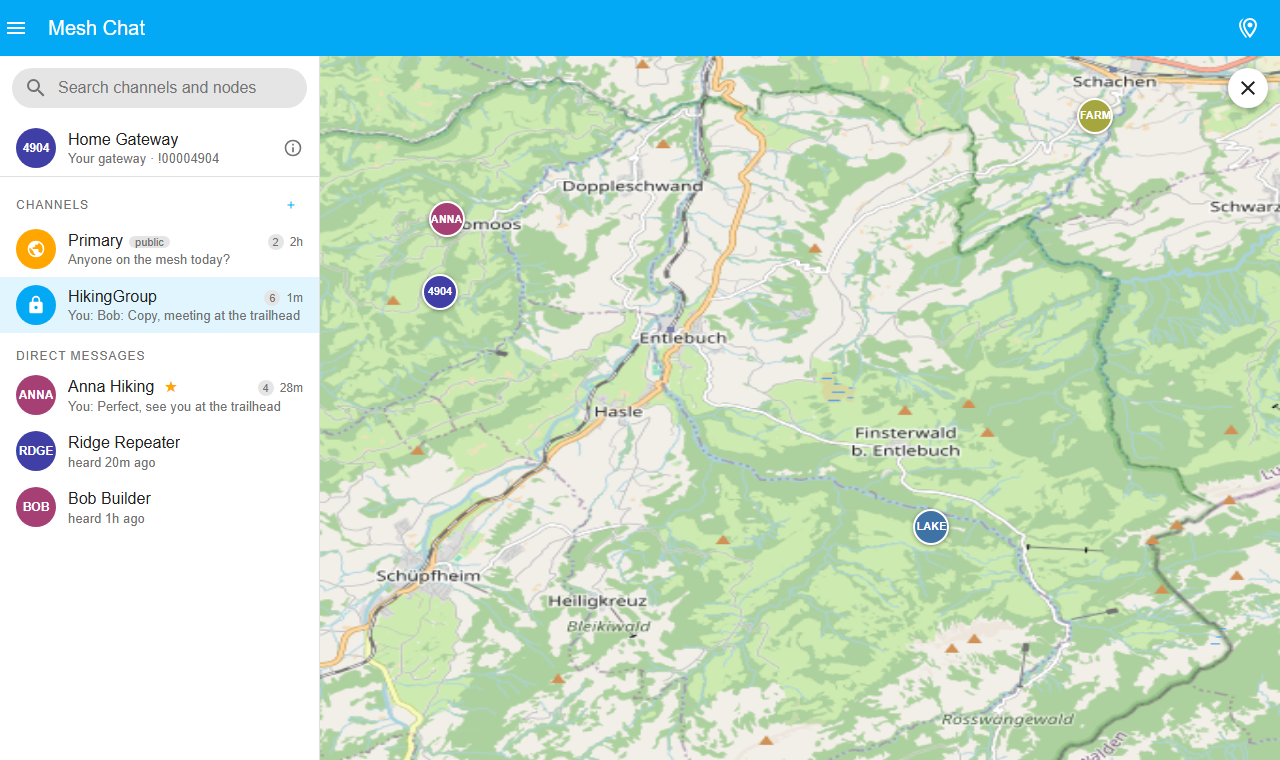
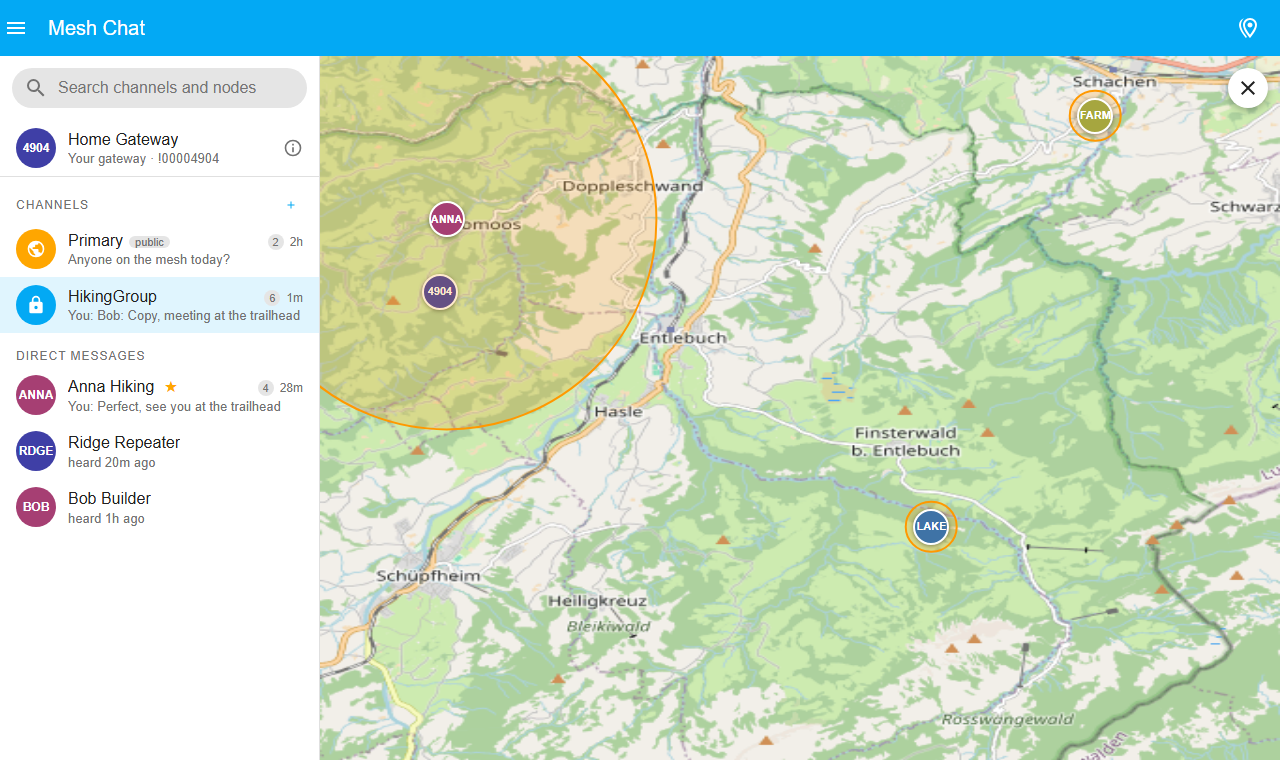
Map: draw the accuracy of a shared position as a circle around the marker
Home Assistant's map drew this circle for the device tracker entities; the chat's own markers lost it.
Every node on the full map and in the details map (including the gateway when its position carries a
precision) gets a circle of its position accuracy as the map element's radius, with our marker kept in
the centre. Exact positions and ones coarser than 50 km get none: such a circle says little and would
zoom the map out to the continent. The older "hass" map interface gets gps_accuracy on its states.

The node details send the gateway marker's accuracy. README line and refreshed map and node screenshots.
Panel build 29.

Changed region(s): [[0.25, 0.0605, 0.5312, 0.575], [0.6875, 0.6355, 0.75, 0.7263], [0.8125, 0.1211, 0.875, 0.1816]]

diff --git a/custom_components/meshtastic/ha_frontend/chat-panel.js b/custom_components/meshtastic/ha_frontend/chat-panel.js
@@ -58,6 +58,9 @@ const KEY_CHOICES = [
 ];
 const PRECISION_BITS = [0, 10, 11, 12, 13, 14, 15, 16, 17, 18, 19, 32];
 // nodes without a device tracker are shown to ha-map as states under this prefix (they never reach Home Assistant)
+// a position shared with less precision is drawn as a circle of its accuracy around the marker; beyond this radius
+// the circle says little and would zoom the map out to the continent
+const MAP_MAX_ACCURACY_M = 50000;
 const MAP_ENTITY_PREFIX = "device_tracker.meshtastic_chat_node_";
 // "1.3 dB · −103 dBm · 1 hop" for a received message; empty when the gateway reported nothing
 const signalText = (m) => {
@@ -991,6 +994,7 @@ class MeshtasticChatPanel extends HTMLElement {
       long_name: n.long_name,
       latitude: n.position.latitude,
       longitude: n.position.longitude,
+      accuracy: n.position.accuracy,
     }));
   }
 
@@ -1049,9 +1053,11 @@ class MeshtasticChatPanel extends HTMLElement {
         markers.set(p.num, element);
       }
       element.classList.toggle("focused", p.num === focus);
+      const radius = this._mapRadius(p);
       return {
         id: `node-${p.num}`,
         location: [p.latitude, p.longitude],
+        ...(radius ? { radius } : {}),
         title: p.long_name,
         element,
         elementSize: [36, 36],
@@ -1061,6 +1067,11 @@ class MeshtasticChatPanel extends HTMLElement {
         fit: focus === null,
       };
     });
+  }
+
+  // meters around the marker where the node's real position can be; none for exact or very coarse positions
+  _mapRadius(point) {
+    return point.accuracy > 0 && point.accuracy <= MAP_MAX_ACCURACY_M ? point.accuracy : null;
   }
 
   // a click on a node marker (the map fires it from inside its own shadow root)
@@ -1522,6 +1533,7 @@ class MeshtasticChatPanel extends HTMLElement {
           latitude: p.latitude,
           longitude: p.longitude,
           source_type: "gps",
+          gps_accuracy: this._mapRadius(p) || 0,
           icon: "mdi:radio-tower",
         },
       };
@@ -2298,7 +2310,9 @@ class MeshtasticChatPanel extends HTMLElement {
   _nodeMapPoints(node) {
     const p = node && node.position;
     if (!p) return [];
-    const points = [{ num: node.num, short_name: node.short_name, long_name: node.long_name, latitude: p.latitude, longitude: p.longitude }];
+    const points = [
+      { num: node.num, short_name: node.short_name, long_name: node.long_name, latitude: p.latitude, longitude: p.longitude, accuracy: p.accuracy },
+    ];
     if (node.gateway_position && !node.is_gateway) points.push(node.gateway_position);
     return points;
   }

diff --git a/tests/test_chat.py b/tests/test_chat.py
@@ -555,6 +555,7 @@ async def test_node_details(hass: HomeAssistant, chat_setup) -> None:
         "long_name": "Home Gateway",
         "latitude": 47.0,
         "longitude": 8.0,
+        "accuracy": None,
     }
     assert details["is_gateway"] is False
     position = details["position"]
@@ -1009,6 +1010,8 @@ async def test_gateway_details_and_map(hass: HomeAssistant, chat_setup) -> None:
     assert nodes["nodes_known"] == 2
     assert [(n["num"], n["is_gateway"]) for n in nodes["nodes"]] == [(GATEWAY, True), (ANNA, False)]
     assert nodes["nodes"][1]["position"]["distance"] == pytest.approx(1112, abs=2)
+    # the map draws the accuracy of a shared position as a circle around the marker
+    assert nodes["nodes"][1]["position"]["accuracy"] == 2918
 
 
 async def test_websocket_map(hass: HomeAssistant, hass_ws_client, chat_setup) -> None:

diff --git a/custom_components/meshtastic/chat.py b/custom_components/meshtastic/chat.py
@@ -509,6 +509,7 @@ class MeshtasticChat:
                 "long_name": gateway_fields["long_name"],
                 "latitude": gateway_position["latitude"],
                 "longitude": gateway_position["longitude"],
+                "accuracy": precision_to_meters(gateway_position.get("precisionBits")),
             }
         return {
             "num": node_id,

diff --git a/custom_components/meshtastic/ha_frontend/version.py b/custom_components/meshtastic/ha_frontend/version.py
@@ -2,4 +2,4 @@
 #
 # SPDX-License-Identifier: MIT
 
-VERSION = "28"
+VERSION = "29"

diff --git a/README.md b/README.md
@@ -421,6 +421,9 @@ Assistant log with the user's name.
 
 <p align="center"><img src="docs/mesh-chat/map.png" width="800" alt="Map view: full-size map with the chat's own node markers"></p>
 
+A node that shares its position with limited precision gets a circle of that accuracy around its marker (exact
+positions, and ones coarser than 50 km, get none), on the full map and in the details map.
+
 Nodes with a `device_tracker` entity (the nodes selected in the integration options) are the ones Home Assistant's
 own Map panel and automations know as well; the chat map does not need them.
 
